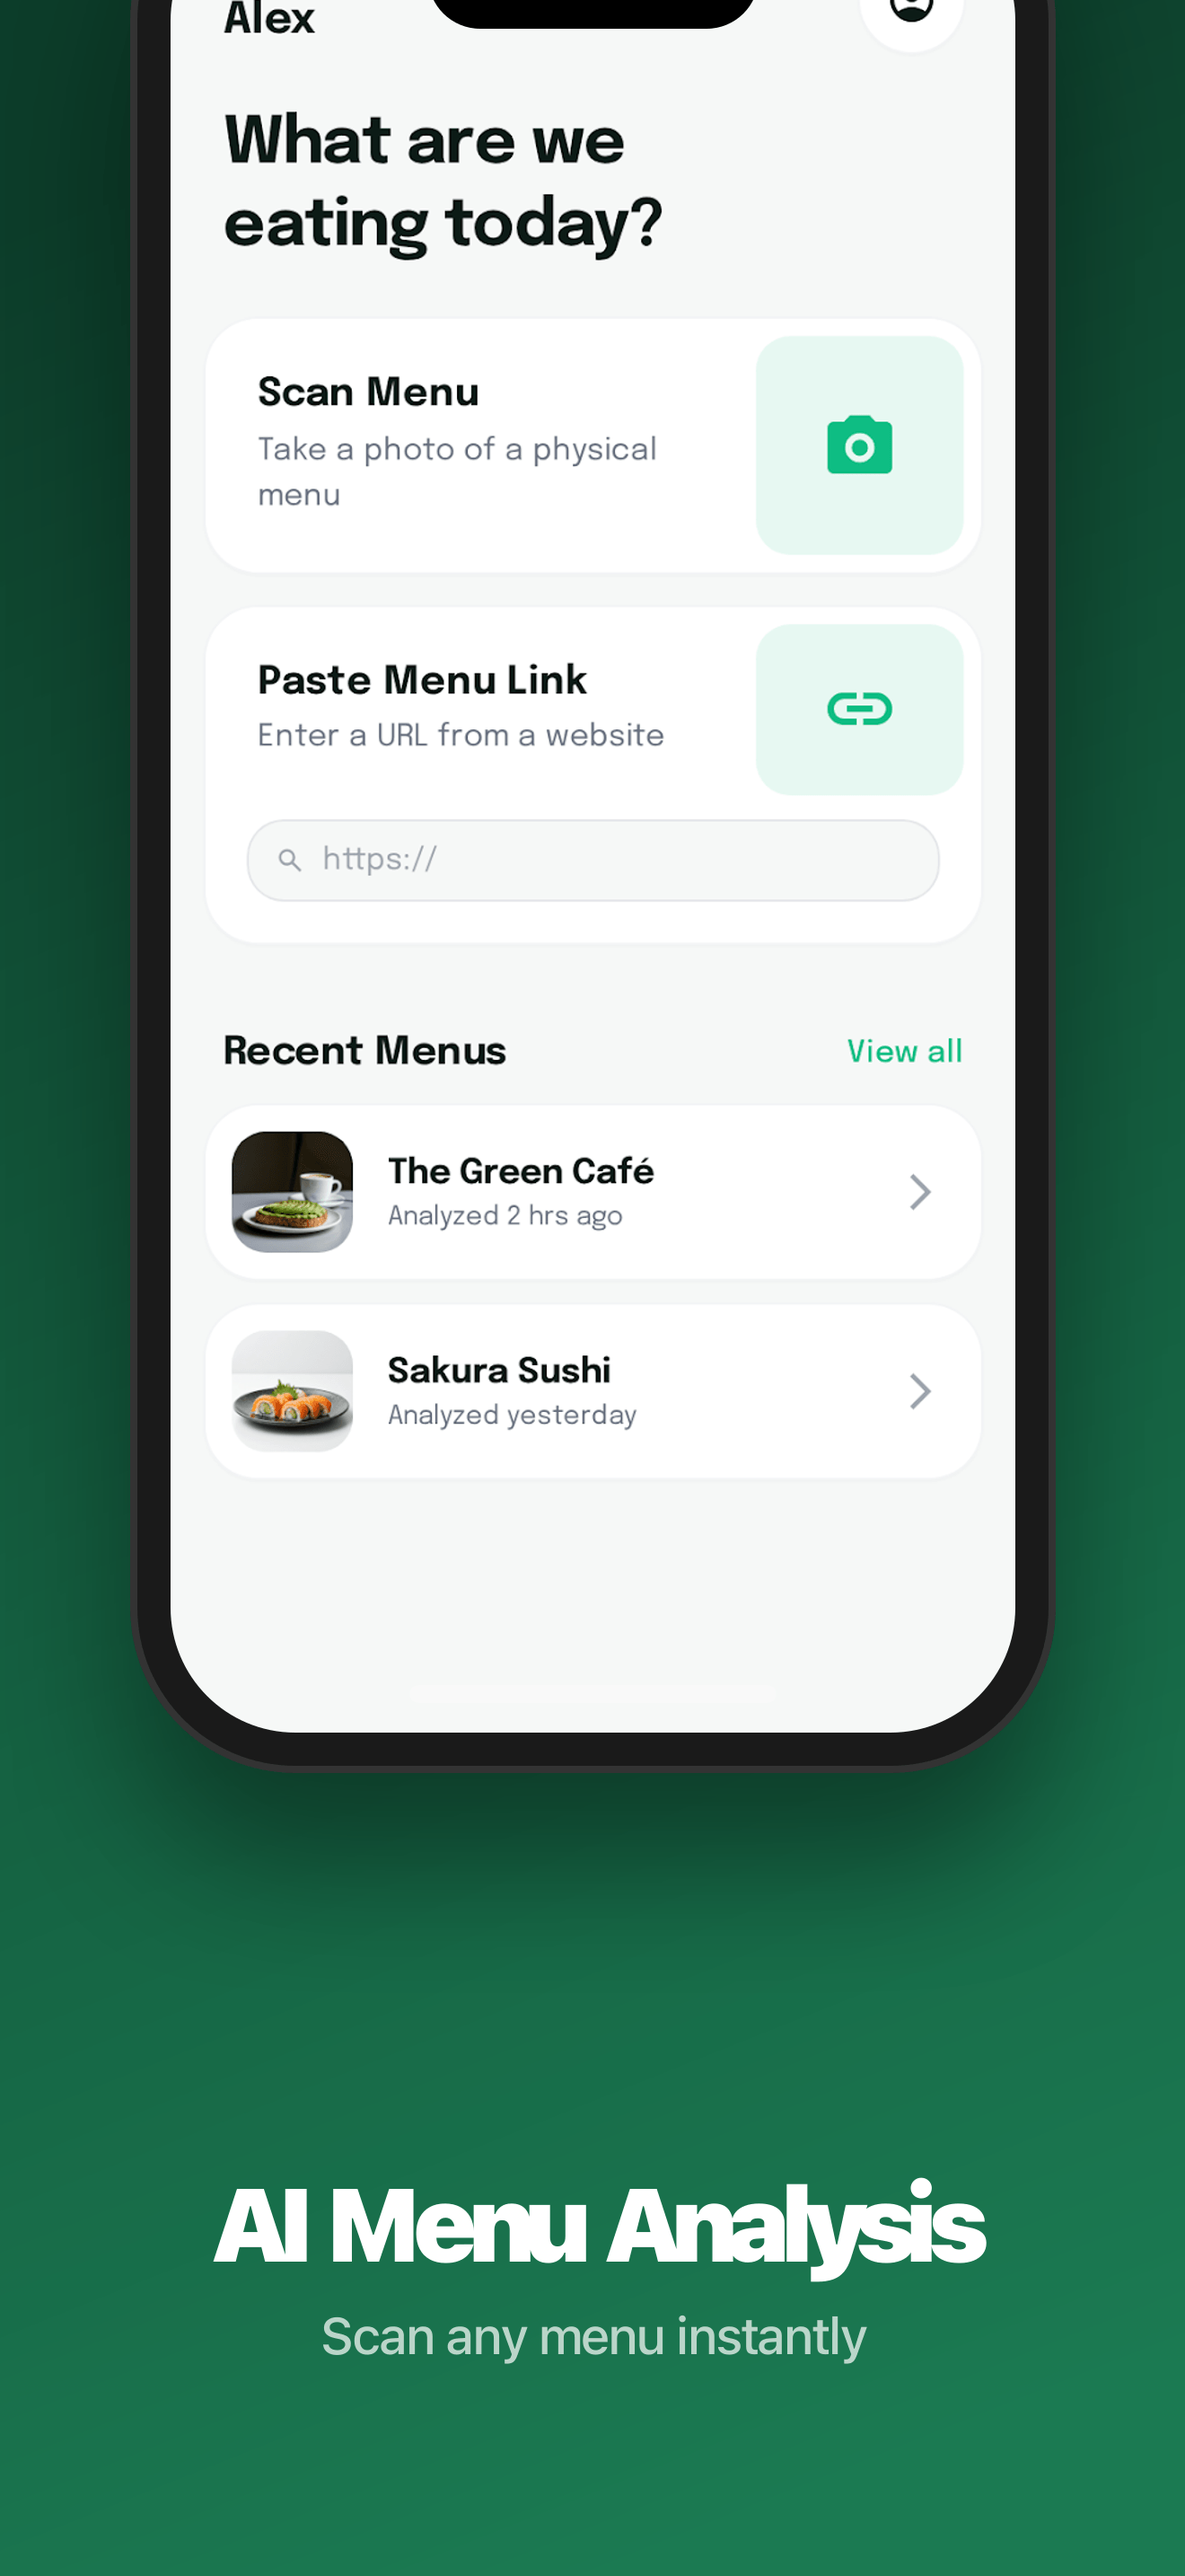
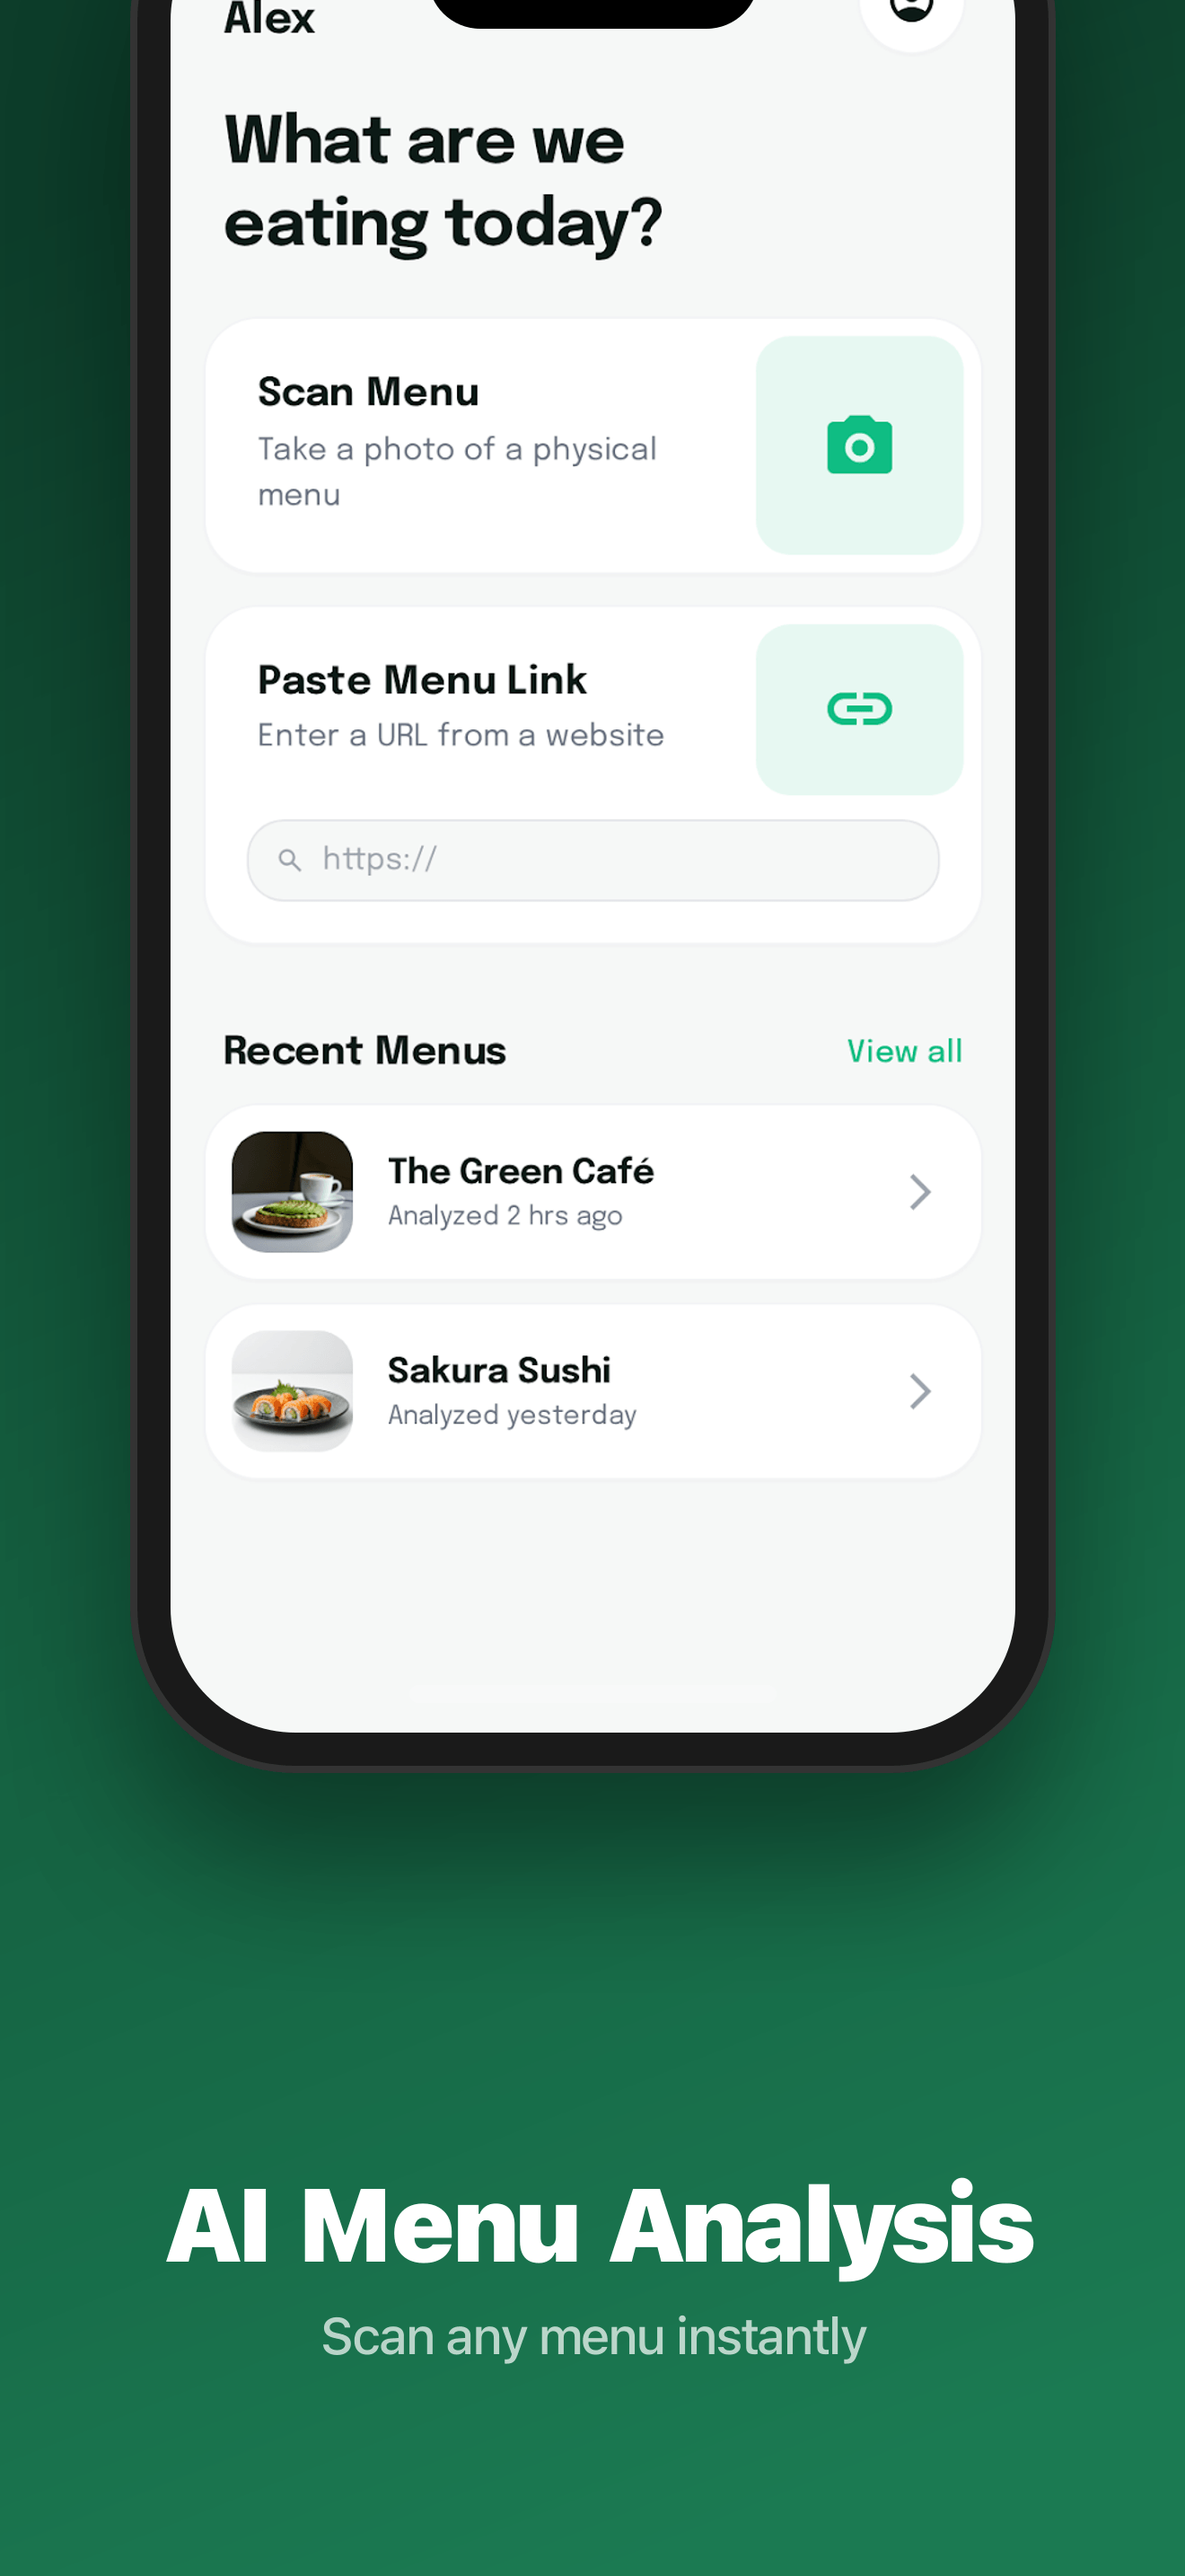
fix: increase title letter-spacing for better readability

Changed region(s): [[0.1242, 0.8379, 0.497, 0.8999], [0.528, 0.8379, 0.8697, 0.8999]]

diff --git a/src/core/framer.ts b/src/core/framer.ts
@@ -417,7 +417,7 @@ function buildDeviceTextSvg(
   const font = `'Inter', system-ui, -apple-system, 'Segoe UI', Roboto, sans-serif`;
   const titleFontSize = Math.round(canvasW * opts.titleSize);
   const subtitleFontSize = Math.round(canvasW * opts.subtitleSize);
-  const titleSpacing = Math.max(1, Math.round(titleFontSize * 0.02));
+  const titleSpacing = Math.max(1, Math.round(titleFontSize * 0.08));
   const titleAttrs = `text-anchor="middle" font-size="${titleFontSize}" font-weight="800" fill="${opts.titleColor}" font-family="${font}" letter-spacing="${titleSpacing}"`;
   const subtitleSpacing = Math.max(1, Math.round(subtitleFontSize * 0.01));
   const subtitleAttrs = `text-anchor="middle" font-size="${subtitleFontSize}" font-weight="500" fill="${opts.subtitleColor}" font-family="${font}" letter-spacing="${subtitleSpacing}"`;
@@ -650,7 +650,7 @@ function buildTextSvg(
 
   if (title) {
     const titleY = padY + Math.round(titleFontSize * 1.25);
-    const ls = Math.max(1, Math.round(titleFontSize * 0.02));
+    const ls = Math.max(1, Math.round(titleFontSize * 0.08));
     textElements += `<text x="${cx}" y="${titleY}" text-anchor="middle"
       font-size="${titleFontSize}" font-weight="800" fill="${opts.titleColor}"
       font-family="${font}" letter-spacing="${ls}">${escapeXml(title)}</text>`;

diff --git a/src/cli.ts b/src/cli.ts
@@ -12,7 +12,7 @@ program
   .description(
     'Generate App Store-ready screenshots. Capture, frame, and validate.'
   )
-  .version('1.2.0');
+  .version('1.2.1');
 
 program
   .command('frame <input>')
